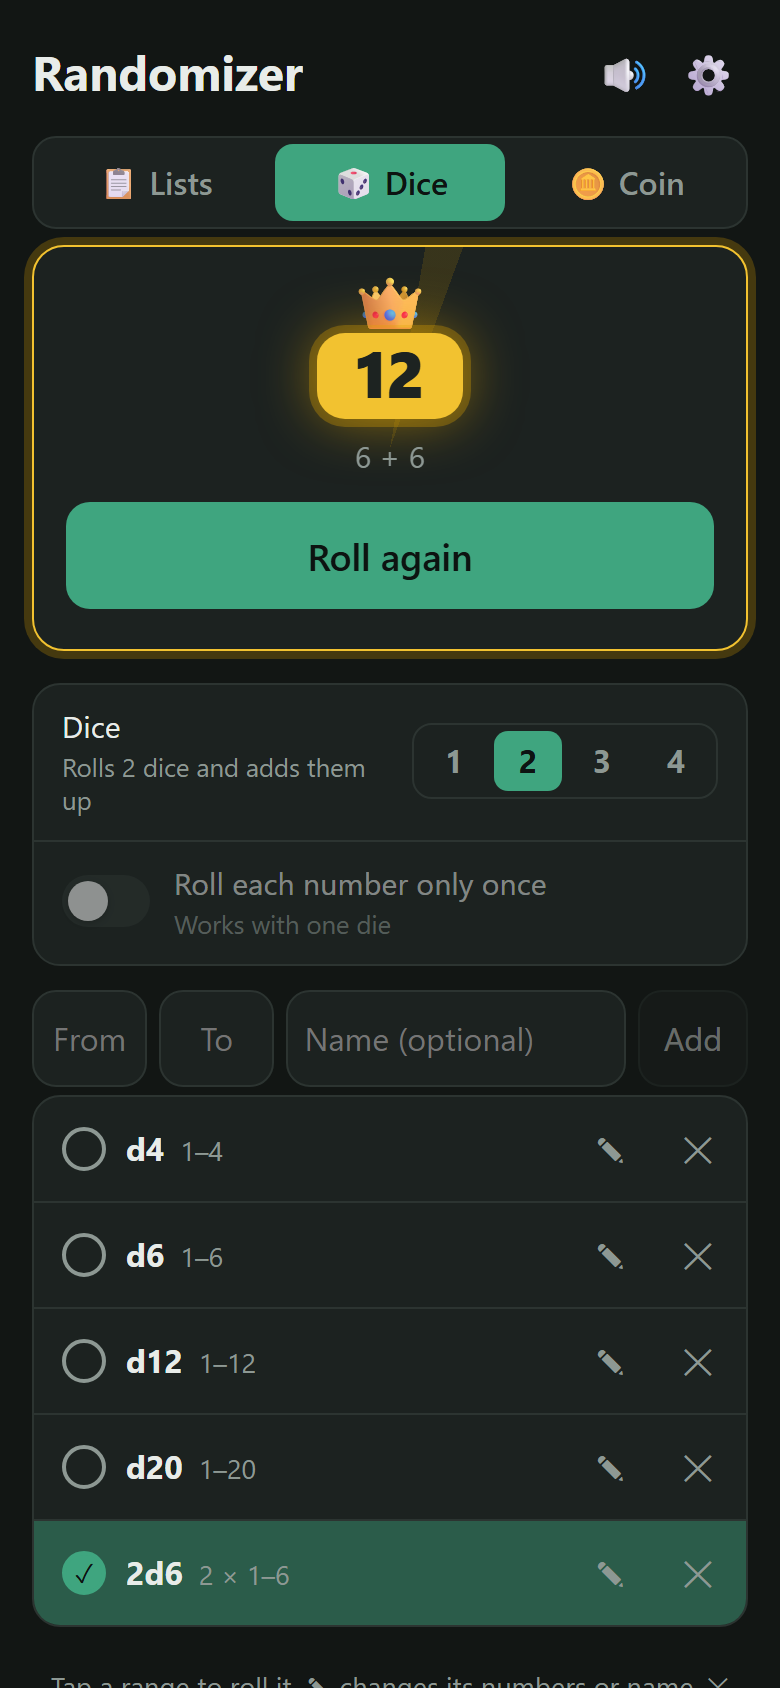
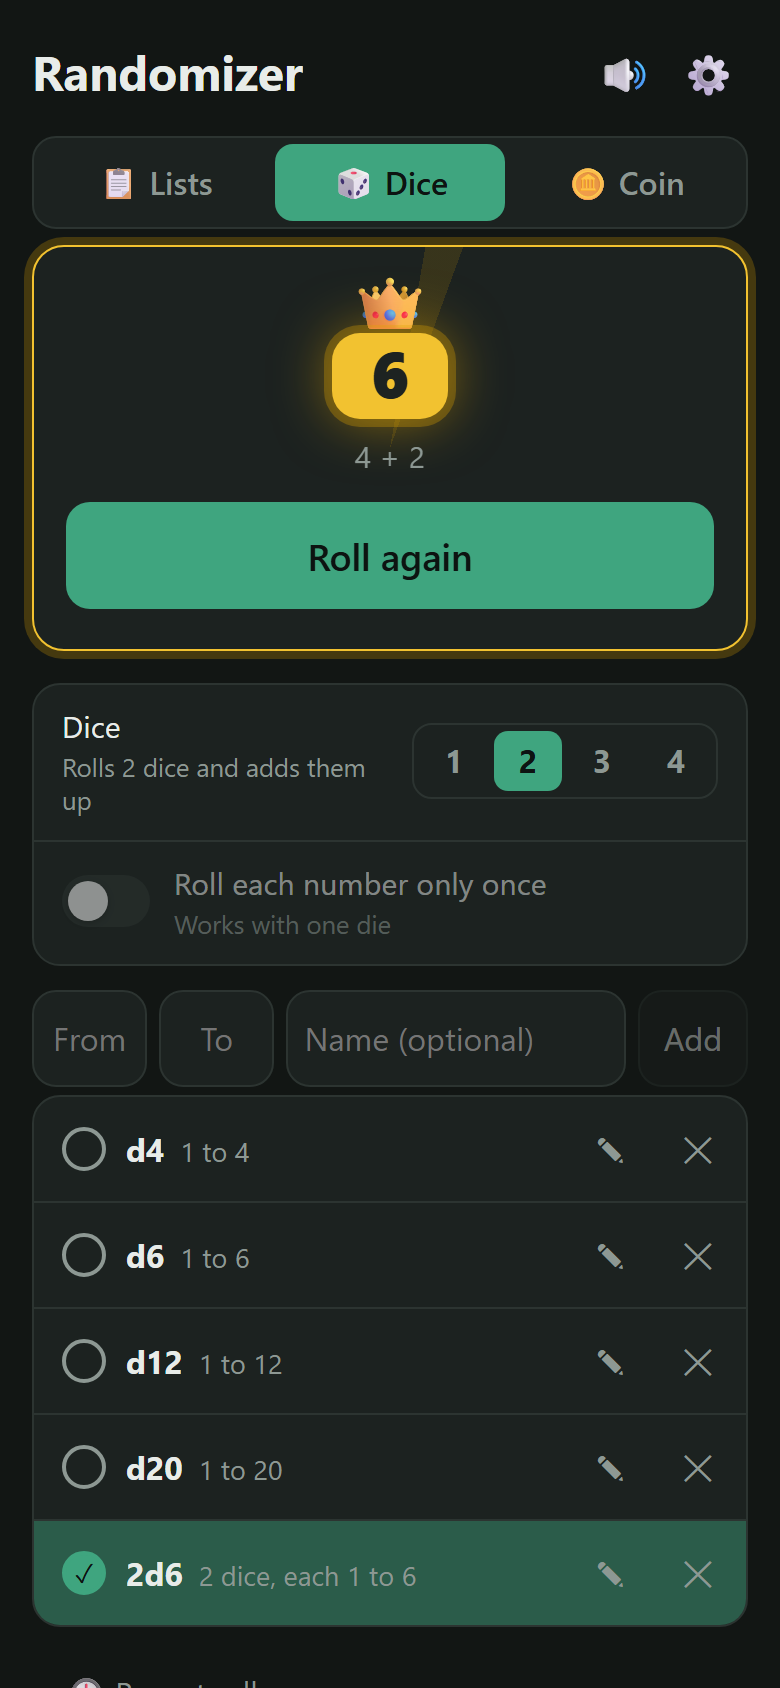
Clearer dice wording: name-only hint, "2 dice, each 1 to 6"
- A named range's hint uses just its name, in quotes
- Ranges read "1 to 6" and "2 dice, each 1 to 6" instead of 1–6 and 2 × 1–6
- One die says "Rolls 1 die"
- Long range rows wrap instead of being cut off
- README and screenshots updated

diff --git a/index.html b/index.html
@@ -237,8 +237,10 @@
   .add-range input[type="number"]::-webkit-inner-spin-button { -webkit-appearance: none; margin: 0; }
   #numName { flex: 1; }
   .btn:disabled, #addBtn:disabled, #addRangeBtn:disabled { opacity: .4; }
-  #rangeList .label small { margin-left: 8px; color: var(--muted); font-size: .85rem; }
-  #rangeList .label b { font-weight: 700; }
+  /* a long name plus "2 dice, each 5 to 9" wraps onto a second line instead of being cut off */
+  #rangeList .label { white-space: normal; line-height: 1.3; }
+  #rangeList .label small { display: inline-block; color: var(--muted); font-size: .85rem; white-space: nowrap; }
+  #rangeList .label b { font-weight: 700; margin-right: 8px; }
   #rangeList li:not(.current-range) .dot { border-color: var(--muted); }
   /* ✎ on each row; tapping it opens that row for editing with a Save button */
   .row-edit { flex: none; width: 40px; height: 52px; color: var(--muted); font-size: 1.05rem; }
@@ -1406,10 +1408,10 @@ function sameRange(a, b) {
     && (a.dice || 1) === (b.dice || 1);
 }
 
-// "1–6", or "2 × 1–6" for two dice
+// "1 to 6", or "2 dice, each 1 to 6": words, so it can't be read as a sum
 function rangeText(r) {
-  const span = `${Math.min(r.from, r.to).toLocaleString()}–${Math.max(r.from, r.to).toLocaleString()}`;
-  return (r.dice || 1) > 1 ? `${r.dice} × ${span}` : span;
+  const span = `${Math.min(r.from, r.to).toLocaleString()} to ${Math.max(r.from, r.to).toLocaleString()}`;
+  return (r.dice || 1) > 1 ? `${r.dice} dice, each ${span}` : span;
 }
 
 // The range Roll! uses; falls back to the first row if the chosen one is gone.
@@ -1552,7 +1554,7 @@ function renderRanges() {
       continue;
     }
 
-    // The whole row chooses the range, shown as "d6 1–6" or "1–6".
+    // The whole row chooses the range, shown as "d6  1 to 6" or "1 to 6".
     const row = document.createElement('button');
     row.className = 'toggle';
     row.setAttribute('aria-pressed', r === selected);
@@ -2058,8 +2060,9 @@ function hintText() {
     const lo = r.from.toLocaleString();
     const hi = r.to.toLocaleString();
     // same pattern as the other tabs: "Tap Roll! (or shake) to roll …"
-    const what = r.name ? `${r.name} (${rangeText(r)})`
-      : r.dice > 1 ? `${r.dice} dice of ${lo}–${hi}`
+    // a named range by its name only, in quotes so it reads as a name
+    const what = r.name ? `“${r.name}”`
+      : r.dice > 1 ? `${r.dice} dice, each ${lo} to ${hi}`
       : `a number from ${lo} to ${hi}`;
     return shaking ? `Tap Roll! or shake to roll ${what}` : `Tap Roll! to roll ${what}`;
   }
@@ -2149,13 +2152,13 @@ function render() {
     $('rangeOnceCard').hidden = !r;
     const pick = $('pick');
     if (r) {
-      const label = r.name ? `“${r.name}”` : rangeText(r);
+      const label = `“${r.name || rangeText(r)}”`;
       const used = (r.used || []).length;
       [...$('dicePick').children].forEach(b => {
         b.classList.toggle('on', Number(b.dataset.n) === r.dice);
         b.setAttribute('aria-pressed', Number(b.dataset.n) === r.dice);
       });
-      $('diceHint').textContent = r.dice > 1 ? `Rolls ${r.dice} dice and adds them up` : 'Roll several and add them up';
+      $('diceHint').textContent = r.dice > 1 ? `Rolls ${r.dice} dice and adds them up` : 'Rolls 1 die';
       $('rangeOnceToggle').checked = !!r.once;
       $('rangeOnceToggle').disabled = r.dice > 1;
       $('rangeOnceHint').textContent = r.dice > 1

diff --git a/sw.js b/sw.js
@@ -1,5 +1,5 @@
 // Bump the version when you change any file so phones pick up the update.
-const CACHE = 'whostarts-v64';
+const CACHE = 'whostarts-v66';
 const FILES = ['./', 'index.html', 'manifest.json', 'icon-192.png', 'icon-512.png'];
 
 // 'reload' skips the browser's own HTTP cache, so a new version really gets

diff --git a/README.md b/README.md
@@ -50,15 +50,15 @@ Every pick is completely random. Each option in the draw has the same chance eve
 
 Switch to **🎲 Dice** at the top to roll dice, or any random number, instead of picking from a list. It works just like a list, except each row is a range of numbers:
 
-1. **Add a range** with the **From**, **To** and **Name (optional)** fields and **Add**. The Add button stays greyed out until From and To are whole numbers. Any whole numbers work, even 1 to 1,000,000. You start with the dice *d4* (1–4), *d6* (1–6), *d12* (1–12), *d20* (1–20) and *2d6* (two dice of 1–6, added up), which you can rename, change or remove.
+1. **Add a range** with the **From**, **To** and **Name (optional)** fields and **Add**. The Add button stays greyed out until From and To are whole numbers. Any whole numbers work, even 1 to 1,000,000. You start with the dice *d4* (1 to 4), *d6* (1 to 6), *d12* (1 to 12), *d20* (1 to 20) and *2d6* (2 dice, each 1 to 6, added up), which you can rename, change or remove.
 2. **Tap a range** to choose it. It gets a ✓.
-3. **Choose how many dice** it rolls with **Dice 1 2 3 4** above the ranges. With several dice, each die is rolled on its own and they're added up, just like real dice: with 2d6 a 7 comes up six times as often as a 2 or a 12. The row shows it as *2 × 1–6*.
+3. **Choose how many dice** it rolls with **Dice 1 2 3 4** above the ranges. With several dice, each die is rolled on its own and they're added up, just like real dice: with 2d6 a 7 comes up six times as often as a 2 or a 12. The row then reads *2 dice, each 1 to 6*, and the hint uses the range's name, like *Tap Roll! to roll “2d6”*.
 4. **Tap Roll!** (or shake your phone). 3D dice, standing on one corner, spin while numbers race past (their dots slide around into new numbers), slow down with them and shrink away as it lands on a number from the range, both ends included. With several dice, the total shows in the gold badge with the dice under it, like *4 + 5*.
 5. **Change a range** with its **✎**: the row turns into From, To and Name fields with a green **Save** button. Change what you like and tap Save or press Enter (Esc cancels). Numbers are put in order if you swap them, and a range you already have is not added twice. **✕** removes a range (tap the red **Delete** to confirm, or **Cancel**).
 
 **Roll each number only once:** switch this on for a range when the same number must not come up twice, like drawing raffle tickets. Numbers already rolled sit out, the switch shows how many have been rolled, and when every number has been rolled the button turns into **↺ Start over**. The setting is saved per range, and works with one die.
 
-**Recent rolls:** under the ranges, *🕘 Recent rolls* keeps your last 100 rolls across all ranges. Each result shows in a small gold badge, with what was rolled next to it, like *2d6: 4 + 5* or *10–30*. It shows the newest 10; tap *Show all* to see the rest.
+**Recent rolls:** under the ranges, *🕘 Recent rolls* keeps your last 100 rolls across all ranges. Each result shows in a small gold badge, with what was rolled next to it, like *2d6: 4 + 5* or *10 to 30*. It shows the newest 10; tap *Show all* to see the rest.
 
 Your ranges are remembered and included in backups. `https://neckfors.github.io/randomizer/#dice` opens straight in Dice mode (older `#number` links still work).
 
@@ -123,7 +123,7 @@ Plain HTML, CSS and JavaScript, with no build step or dependencies.
 ### Making changes
 
 Edit the files and push to `main`. GitHub Pages publishes automatically.
-**Change `CACHE` in `sw.js` every time** (for example `whostarts-v64` → `whostarts-v65`), otherwise installed copies keep showing the old version and the update bar never appears.
+**Change `CACHE` in `sw.js` every time** (for example `whostarts-v66` → `whostarts-v67`), otherwise installed copies keep showing the old version and the update bar never appears.
 
 ## Support
 
